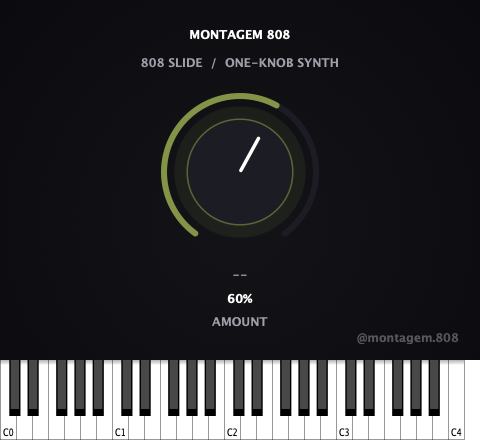
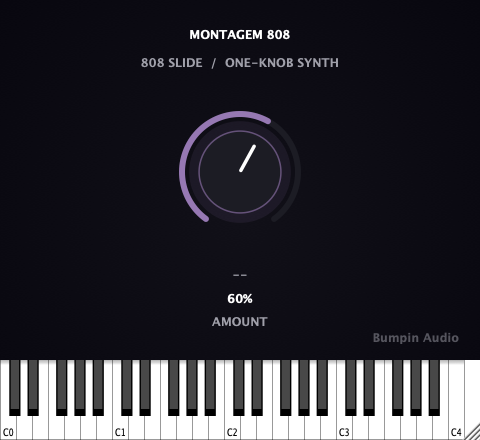
Update publisher name to Bumpin Audio
Purely metadata (COMPANY_NAME) -- the technical manufacturer code used by
hosts/DAWs to identify the plugin is unchanged, so existing installs are
unaffected.

Changed region(s): [[0.3125, 0.2068, 0.625, 0.5318], [0.75, 0.7386, 0.9688, 0.7977], [0.9688, 0.975, 1.0, 1.0]]

diff --git a/Source/E808LookAndFeel.h b/Source/E808LookAndFeel.h
@@ -1,17 +1,19 @@
 #pragma once
 #include <juce_gui_basics/juce_gui_basics.h>
 
-// Same Montagem brand palette as the rest of the chain: dark background,
-// red = "tight/short", green = "deep/long". The knob arc interpolates
-// between them as the single "amount" parameter increases, so the color
-// itself communicates the character instead of a plain gray dial.
+// Same Bumpin Audio catalogue palette as Delta Zero/Delta Blind (and the
+// logo): cyan = "tight/short"/idle, magenta = "deep/long"/engaged. The
+// knob arc interpolates between them as the single "amount" parameter
+// increases, so the color itself communicates the character instead of a
+// plain gray dial -- same cyan=calm/magenta=intense convention used
+// across the whole catalogue, not a Montagem-specific red/green.
 class E808LookAndFeel : public juce::LookAndFeel_V4
 {
 public:
-    inline static const juce::Colour bg        { 0xff0d0d12 };
+    inline static const juce::Colour bg        { 0xff0a0912 };
     inline static const juce::Colour bgLighter  { 0xff1c1c24 };
-    inline static const juce::Colour red        { 0xffff3b30 };
-    inline static const juce::Colour green      { 0xff30d158 };
+    inline static const juce::Colour cyan       { 0xff29c2d6 };
+    inline static const juce::Colour magenta    { 0xffe0479c };
     inline static const juce::Colour textDim    { 0xffa0a0aa };
 
     E808LookAndFeel()
@@ -28,7 +30,7 @@ public:
         const auto centre = bounds.getCentre();
         const auto radius = juce::jmin(bounds.getWidth(), bounds.getHeight()) * 0.5f;
         const auto angle = rotaryStartAngle + sliderPosProportional * (rotaryEndAngle - rotaryStartAngle);
-        const auto knobColour = red.interpolatedWith(green, sliderPosProportional);
+        const auto knobColour = cyan.interpolatedWith(magenta, sliderPosProportional);
 
         // outer track
         {

diff --git a/Source/PluginEditor.cpp b/Source/PluginEditor.cpp
@@ -54,7 +54,7 @@ E808Editor::E808Editor(E808Processor& p)
     noteLabel.setFont(juce::Font(juce::FontOptions(13.0f, juce::Font::bold)));
     addAndMakeVisible(noteLabel);
 
-    brandLabel.setText("@montagem.808", juce::dontSendNotification);
+    brandLabel.setText("Bumpin Audio", juce::dontSendNotification);
     brandLabel.setJustificationType(juce::Justification::centredRight);
     brandLabel.setColour(juce::Label::textColourId, E808LookAndFeel::textDim.withAlpha(0.5f));
     brandLabel.setFont(juce::Font(juce::FontOptions(10.0f, juce::Font::plain)));

diff --git a/README.md b/README.md
@@ -111,6 +111,11 @@ funk automotivo / phonk production, in signal-chain order:
 - [Montagem Widener](https://github.com/nabsei/montagem-widener) — stereo width
 - [Montagem Punch](https://github.com/nabsei/montagem-punch) — transient shaping
 
-Also by the same author: [Delta](https://github.com/nabsei/delta), a
-phase-cancellation null-test / difference-checker plugin (a different tool
-for a different audience — audio engineers doing verification work).
+Also from Bumpin Audio: [Yano Log](https://github.com/nabsei/yano-log),
+[Yano Finish](https://github.com/nabsei/yano-finish),
+[Yano Space](https://github.com/nabsei/yano-space),
+[Yano Swing](https://github.com/nabsei/yano-swing) — a one-knob amapiano
+log drum synth, finisher, space/width processor, and MIDI groove tool --
+and the Delta line for audio engineers, [Delta Zero](https://github.com/nabsei/delta-zero)
+(phase-cancellation null-test / difference-checker) and
+[Delta Blind](https://github.com/nabsei/delta-blind) (loudness-matched A/B compare).